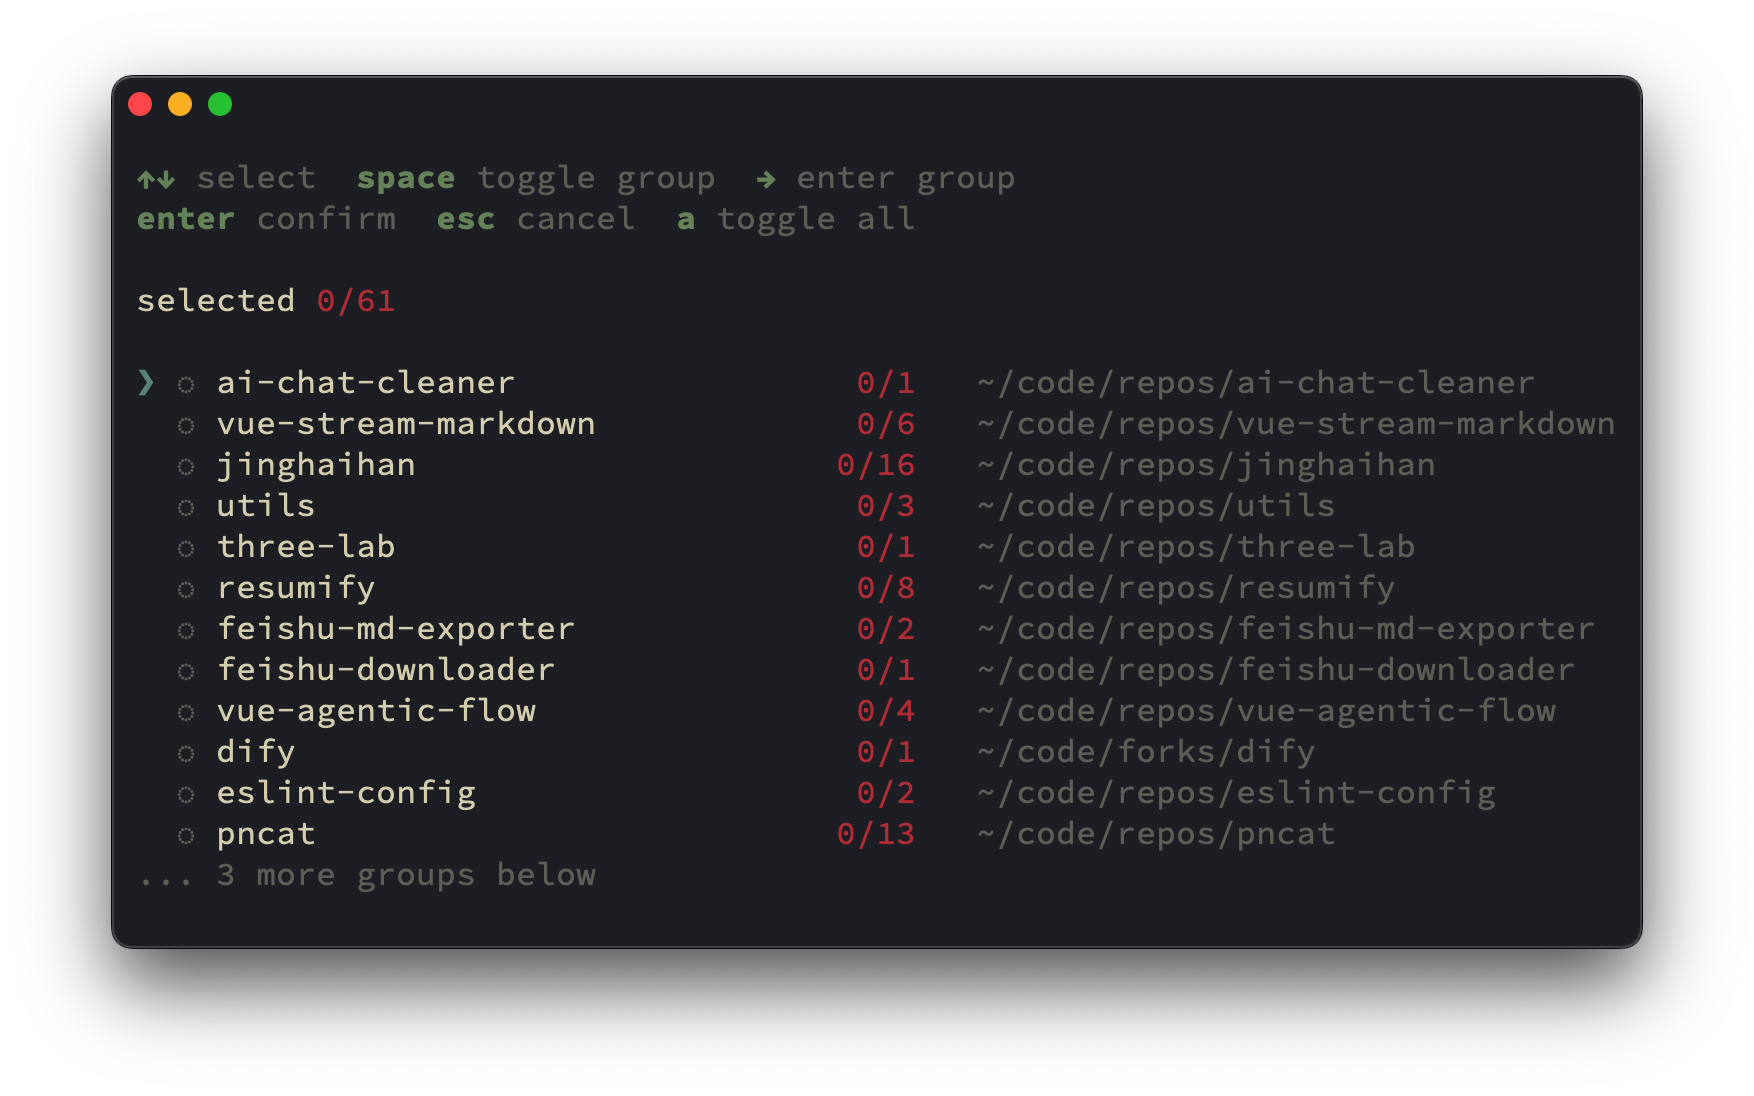
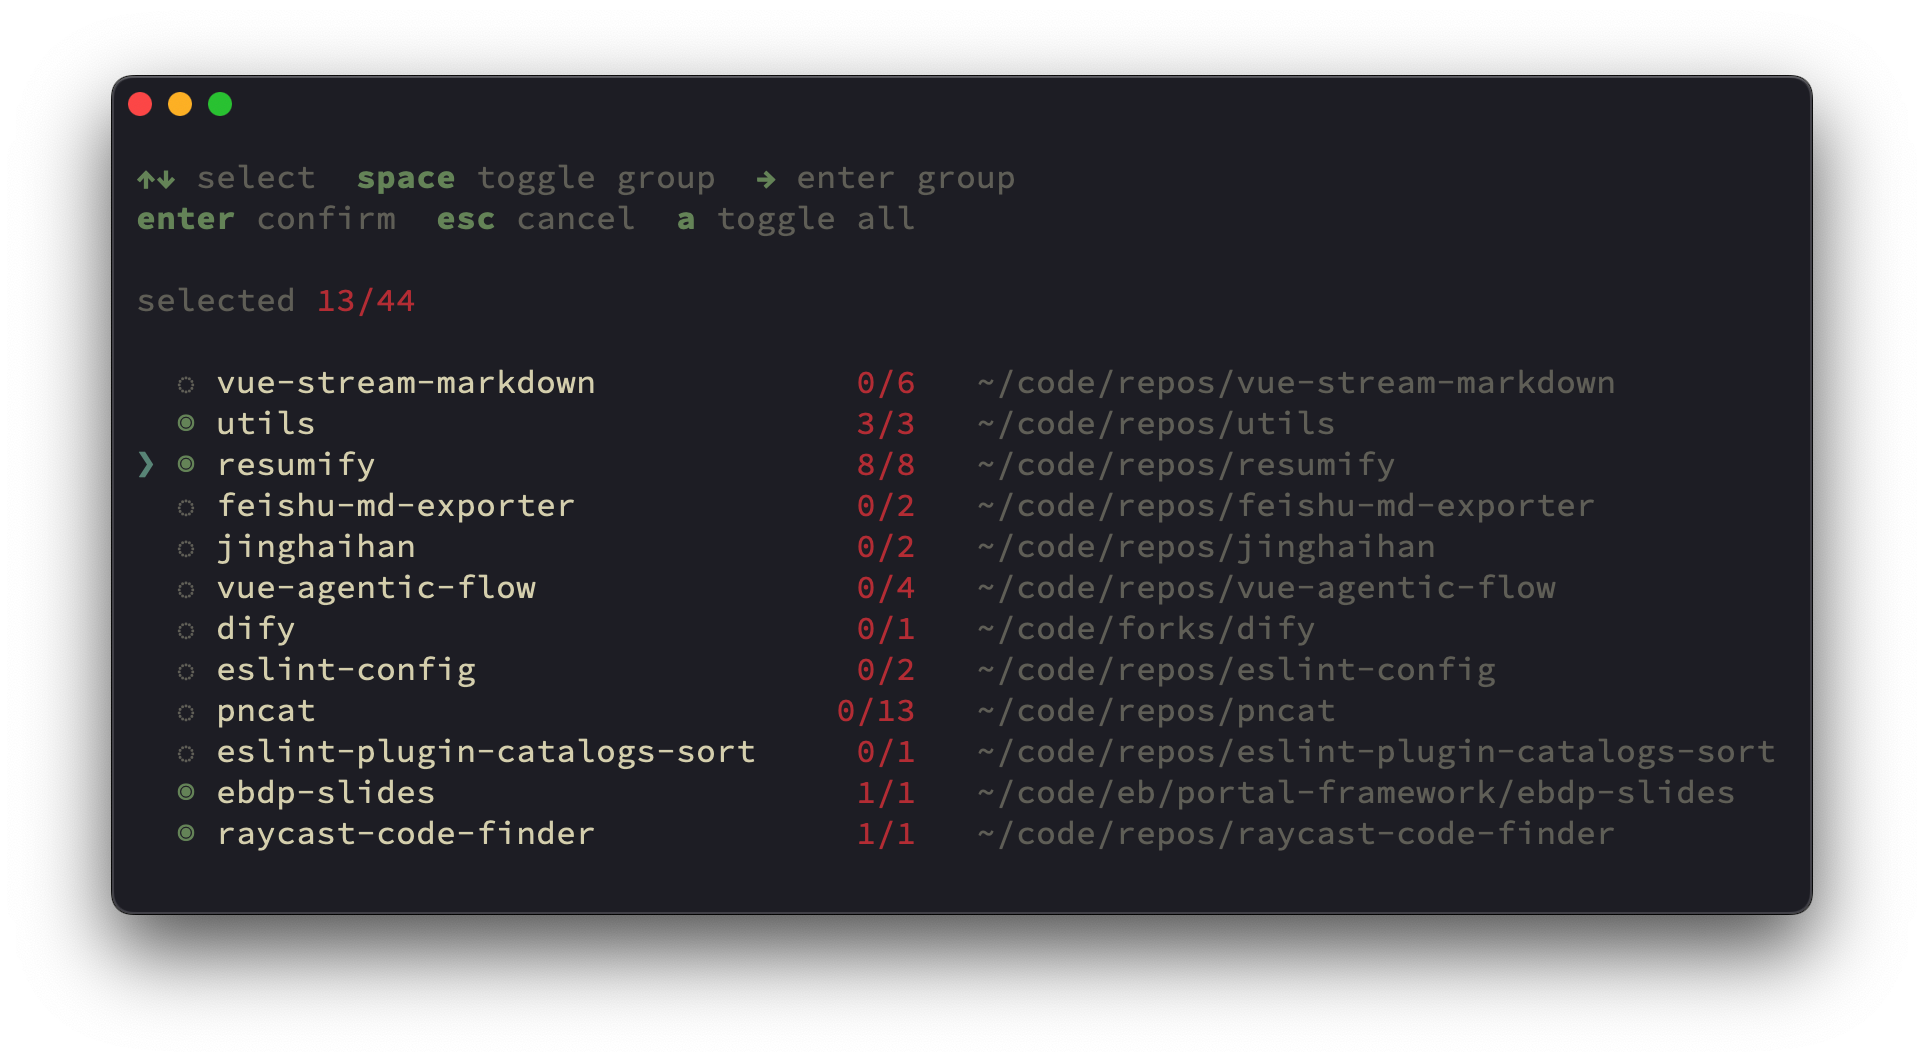
docs: credit

Changed region(s): [[0.0308, 0.0621, 0.9544, 0.8701], [0.431, 0.7768, 0.4618, 0.8079]]

diff --git a/src/prompts.ts b/src/prompts.ts
@@ -201,7 +201,7 @@ function renderGroups<T>(state: PromptState, groups: Array<NormalizedGroup<T>>) 
 
   process.stdout.write(`${c.gray(`${Y('↑↓')} select  ${Y('space')} toggle group  ${Y('→')} enter group`)}\n`)
   process.stdout.write(`${c.gray(`${Y('enter')} confirm  ${Y('esc')} cancel  ${Y('a')} toggle all`)}\n\n`)
-  process.stdout.write(`selected ${c.red(`${selectedCount}/${totalCount}`)}\n\n`)
+  process.stdout.write(`${c.gray('selected')} ${c.red(`${selectedCount}/${totalCount}`)}\n\n`)
 
   const labelWidth = Math.min(36, Math.max(12, ...groups.map(group => group.label.length)))
   const countWidth = Math.max(7, ...groups.map((group) => {
@@ -238,7 +238,7 @@ function renderItems<T>(state: PromptState, groups: Array<NormalizedGroup<T>>) {
 
   process.stdout.write(`${c.gray(`${Y('↑↓')} select  ${Y('space')} toggle  ${Y('←')} back`)}\n`)
   process.stdout.write(`${c.gray(`${Y('enter')} back  ${Y('esc')} back  ${Y('a')} toggle group`)}\n\n`)
-  process.stdout.write(`selected ${c.red(`${selectedCount}/${totalCount}`)}\n`)
+  process.stdout.write(`${c.gray('selected')} ${c.red(`${selectedCount}/${totalCount}`)}\n`)
   process.stdout.write('\n')
   process.stdout.write(`${c.green(group.label)} ${c.gray(group.path ? tildifyPath(group.path) : '(unknown cwd)')}\n\n`)
 

diff --git a/README.md b/README.md
@@ -11,6 +11,11 @@ Clean and remove AI chat with an interactive terminal UI.
 npx ai-chat-cleaner
 ```
 
+> [!WARNING]
+> Please restart your AI coding tool after deletion.
+>
+> It is recommended to clean history while Codex is not running, to avoid duplicate writes.
+
 <p align='center'>
 <img src='./assets/screenshot.png' alt="screenshot" />
 </p>
@@ -18,16 +23,15 @@ npx ai-chat-cleaner
 - Supported agents:
   - `codex`
 
-> [!WARNING]
-> Please restart your AI coding tool after deletion.
->
-> It is recommended to clean history while Codex is not running, to avoid duplicate writes.
-
 ## Why ?
 
 I am not entirely sure why `Codex` and `Claude Code` do not provide a way to delete a specific conversation history, perhaps to preserve context continuity.
 
 But in practice, one conversation that goes in the wrong direction can keep affecting later outputs, so I built this tool.
+
+## Credit
+
+The terminal interaction mode is inspired by [taze](https://github.com/antfu-collective/taze).
 
 ## License
 
